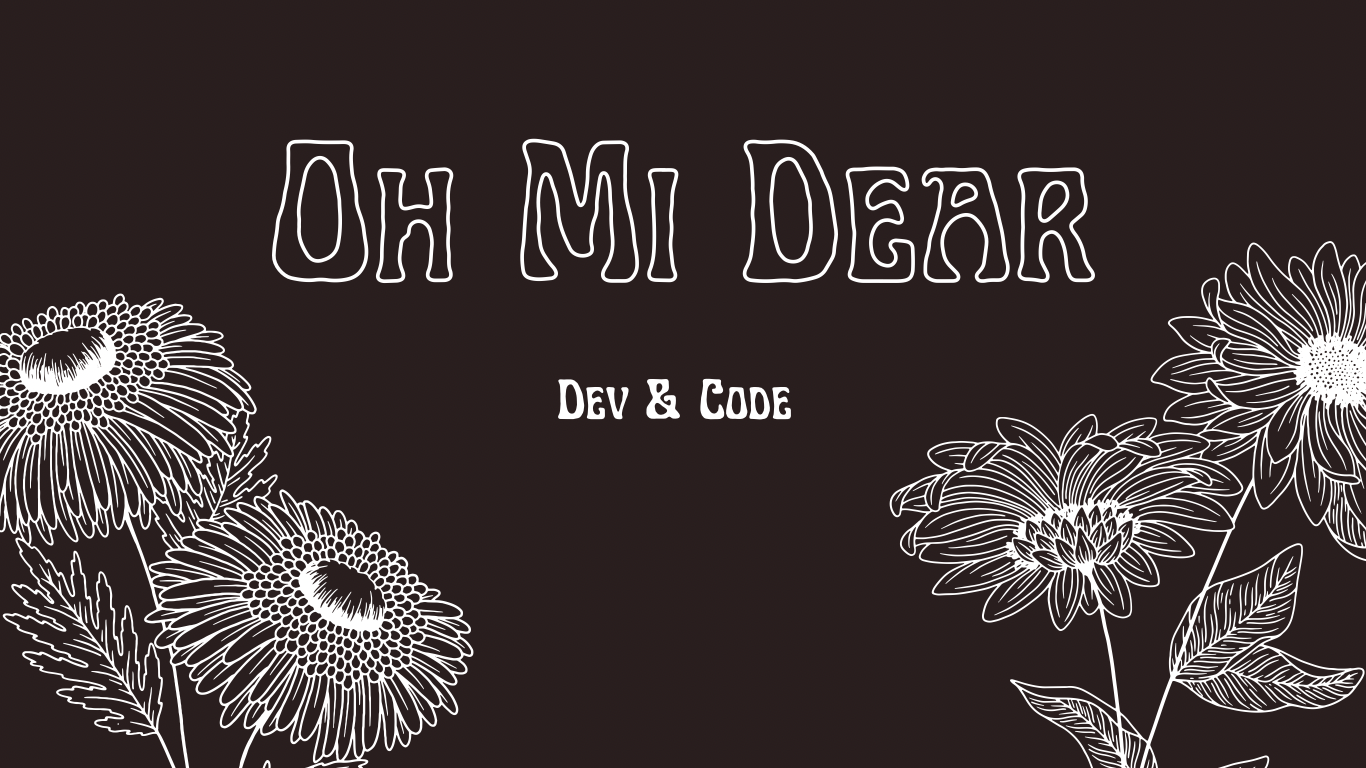
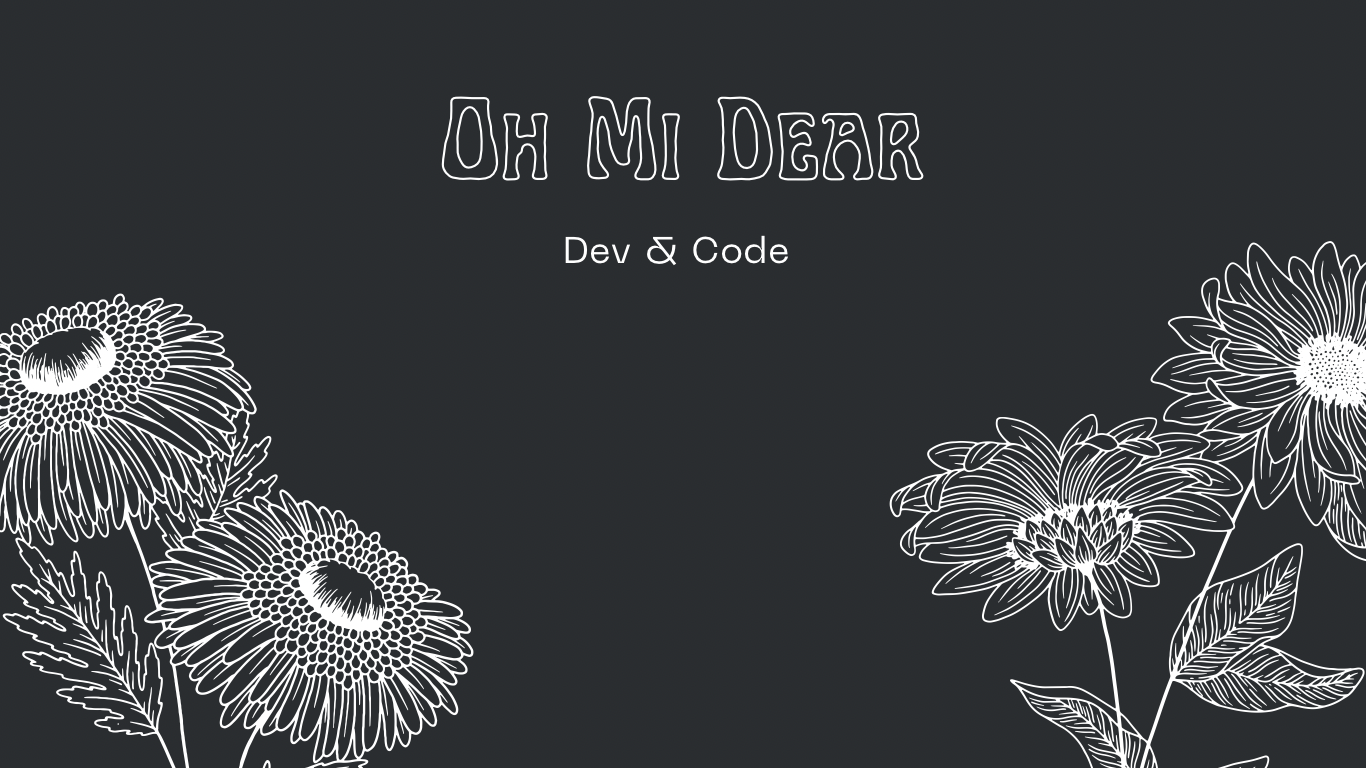
added responsive grid

Changed region(s): [[0.1845, 0.125, 0.7994, 0.375], [0.3997, 0.4688, 0.5842, 0.5625]]

diff --git a/index.html b/index.html
@@ -16,12 +16,12 @@
         <div class="box-area">
             <header>
                 <div class="wrapper">
-                    <!--Logo is not aligned to the left, make adjustments add logo.png-->
+                    <!--Logo is not aligned to the left, make adjustments and remove text decoration and edit active/inactive link, need less padding to left of Logo
                     <div class="logo">
-                        <a href="https://github.com/ohmidear" ></a>
-                    </div>
+                        <a href="https://github.com/ohmidear" ><img src="" alt="">Oh Mi Dear Code</Code></a>
+                    </div>-->
                     
-                    <!--Need more padding to the right of navbar-->
+                    <!--Need more padding to the right of navbar--DONE 09/10-->
                     <nav>
                         <a href="#top">Home</a>
                         <a href="#section-connect">Hello & Let's Connect</a>
@@ -31,20 +31,49 @@
                 
             </header>
 
-            <!--Image size is not fitting screen, debug-->
             <div class="header-image">
             </div>
 
             <div class="content-area">
                 <div class="header-wrapper">
-                    <h2>A little about Mi</h2>
+
+                    <div class="container">
+                        <div class="responsive-grid">
+                            <a href="" class="frame-1">
+                                <i class="icon ion-md-expand"></i>
+                            </a>
+                            <a href="" class="frame-2">
+                                <i class="icon ion-md-expand"></i>
+                            </a>
+                            <a href="" class="frame-3">
+                                <i class="icon ion-md-expand"></i>
+                            </a>
+                            <a href="" class="frame-4">
+                                <i class="icon ion-md-expand"></i>
+                            </a>
+                            <a href="" class="frame-5">
+                                <i class="icon ion-md-expand"></i>
+                            </a>
+                            <a href="" class="frame-6">
+                                <i class="icon ion-md-expand"></i>
+                            </a>
+                            <a href="" class="frame-7">
+                                <i class="icon ion-md-expand"></i>
+                            </a>
+                            <a href="" class="frame-8">
+                                <i class="icon ion-md-expand"></i>
+                            </a>
+                        </div>
+                    </div>
+
+                    <!--<h2>A little about Mi</h2>
                         <p>"Lorem ipsum dolor sit amet, consectetur adipiscing elit, sed do eiusmod tempor incididunt ut labore et dolore magna aliqua. Ut enim ad minim veniam, quis nostrud exercitation ullamco laboris nisi ut aliquip ex ea commodo consequat. Duis aute irure dolor in reprehenderit in voluptate velit esse cillum dolore eu fugiat nulla pariatur. Excepteur sint occaecat cupidatat non proident, sunt in culpa qui officia deserunt mollit anim id est laborum."</p>
         
-                        <!--Need to add video and bio grid, imbed, two window grid,,,, should i do a grid with the bio-->
+                        Need to add video and bio grid, imbed, two window grid,,,, should i do a grid with the bio
                         <div class="video">
                         </div>
 
-                        <!--Work on grid with images and link,,,, having huge error with creating link.. does this need ot be done in css or html?-->
+                        Work on grid with images and link,,,, having huge error with creating link.. does this need ot be done in css or html?
                         <div class="section-grid" >
                             <div href="https://github.com/ohmidear">GitHub</div>
                             <div href="https://www.linkedin.com/">Linkdin</div>
@@ -52,12 +81,16 @@
                             <div href="https://github.com/ohmidear/PacMen">PacMen Exercise</div>
                             <div href="https://github.com/ohmidear/theEyes">Eye Exercise</div>
                             <div href="https://github.com/ohmidear">All Repositories</div>
-                        </div>
+                        </div>-->
 
 
                 </div>
             </div>
         </div>
+
+<script type="module" src="https://unpkg.com/ionicons@5.5.2/dist/ionicons/ionicons.esm.js"></script>
+<script nomodule src="https://unpkg.com/ionicons@5.5.2/dist/ionicons/ionicons.js"></script>
+
     </body>
 </div>
 

diff --git a/styles.css b/styles.css
@@ -1,14 +1,26 @@
 @import url('https://fonts.googleapis.com/css2?family=Quattrocento:wght@400;700&display=swap');
 @import url('https://fonts.googleapis.com/css2?family=Poppins:wght@200;400&display=swap');
 
-*{
+*,
+*::before,
+*::after{
     margin: 0;
     padding: 0;
+    box-sizing: border-box;
+}
+html{
+    font-family: Poppins;
+    font-weight: 200;
 }
 
 body{
     font-family: 'Poppins';
+    font-weight: 200;
     text-align: center;
+    width: 100%;
+    height: 100vh;
+    background-color: #2A2D30;
+    display: flex;
 }
 
 .wrapper {
@@ -25,18 +37,13 @@ body{
 header{
     width: 100%;
     height: 100px;
-    background-color: #291E1E;
+    background-color: #2A2D30;
     position: fixed;
-}
-
-.logo{
-    float: left;
-    text-align: left;
-    line-height: 100px;
 }
 
 nav{
     float: right;
+    margin-right: 35px;
     line-height: 100px;  
 }
 
@@ -45,14 +52,14 @@ nav .a{
     font-family: 'Poppins';
     letter-spacing: 1px;
     font-size: 20px;
-    color: #291E1E;
+    color: #2A2D30;
     padding: 30px 10px;
     margin: 0 5px;
     font-weight: 200;  
 }
 
 nav a:link{
-    color: #291E1E;
+    color: #2A2D30;
     background-color: whitesmoke;
     padding: 30px 10px;
     text-decoration: none;
@@ -60,20 +67,20 @@ nav a:link{
 
 nav a:visited{
     color: whitesmoke;
-    background-color: #291E1E;
+    background-color: #2A2D30;
     padding: 10px 5px;
     text-decoration: none;
 }
 
 nav a:hover{
-    background-color: #291E1E;
+    background-color: #2A2D30;
     color: whitesmoke;
     padding: 30px 10px;
     text-decoration: none;
 }
 
 nav a:active{
-    background-color: #291E1E;
+    background-color: #2A2D30;
     color: whitesmoke;
     padding: 30px 10px;
     text-decoration: none;
@@ -106,7 +113,7 @@ nav a:active{
     bottom: 50%;
     text-align: center;
     padding-top: 10%;
-    background-color: #291e1e;
+    background-color: #2A2D30;
     background-image: url(Images/ohmidear.content-area.png);
 }
 
@@ -125,18 +132,123 @@ nav a:active{
     line-height: 35px;  
 }
 
+.container{
+    width: 100%;
+    position: relative;
+    top: 25px;
+    left: 0;
+    right: 0;
+    max-width: 120rem;
+    margin: auto;
+    padding: 0 1.5rem;
+}
+
+.responsive-grid{
+    display: grid;
+    grid-template-columns: 1fr 1fr 1fr 1fr;
+    grid-template-rows: auto;
+    grid-gap: 1.5rem;
+    grid-template-areas: 
+        'frame-1 frame-2 frame-3 frame-3'
+        'frame-1 frame-4 frame-5 frame-6'
+        'frame-7 frame-7 frame-8 frame-6';
+}
+
+.responsive-grid a{
+    width: 100%;
+    height: 25rem;
+    background-position: center;
+    background-repeat: no-repeat;
+    background-size: cover;
+    position: relative;
+    display: flex;
+    align-items: center;
+    justify-content: center;
+    text-decoration: none;
+}
+
+.responsive-grid a i{
+    color: rgba(255, 255, 266, .6);
+    font-size: 3rem;
+    position: relative;
+    z-index: 100;
+    padding: 1rem 3rem;
+    border: 2px solid rgba(255, 255, 255, .6);
+    border-radius: .4rem;
+    opacity: 0;
+    transition: opacity .5s;
+}
+
+.responsive-grid a::before{
+    content: '';
+    position: absolute;
+    width: 100%;
+    height: 100%;
+    top: 0;
+    left: 0;
+    background-color:rgba(0, 0, 0, .8);
+    opacity: 0;
+    transition: opacity .5s;
+}
+
+.responsive-grid a:hover i,
+.responsive-grid a:hover::before{
+    opacity: 1;
+}
+
+.frame-1{
+    grid-area: frame-1;
+    min-height: 51.5rem;
+    background-image: url("Images/frame-1.png");
+}
+
+.frame-2{
+    grid-area: frame-2;
+    background-image: url("Images/frame-2.png");
+}
+
+.frame-3{
+    grid-area: frame-3;
+    background-image: url("Images/frame-3.png");
+}
+
+.frame-4{
+    grid-area: frame-4;
+    background-image: url("Images/frame-4.png");
+}
+
+.frame-5{
+    grid-area: frame-5;
+    background-image: url("Images/frame-5.png");
+}
+
+.frame-6{
+    grid-area: frame-6;
+    min-height: 51.5rem;
+    background-image: url("Images/frame-6.png");
+}
+
+.frame-7{
+    grid-area: frame-7;
+    background-image: url("Images/frame-7.png");
+}
+
+.frame-8{
+    grid-area: frame-8;
+    background-image: url("Images/frame-8.png");
+}
 @media screen and (max-width: 600px) {
     .column {
       width: 100%;
     }
   }
 
-  .section-grid {
+  /*.section-grid {
     display: grid;
     grid-template-columns: repeat(3, 1fr);
     grid-template-rows: repeat(2, 150px);
     color: whitesmoke;
-    background-color: #291e1e;
+    background-color: #2A2D30;
     padding-top: 5px;
-  }
+  }*/
 
